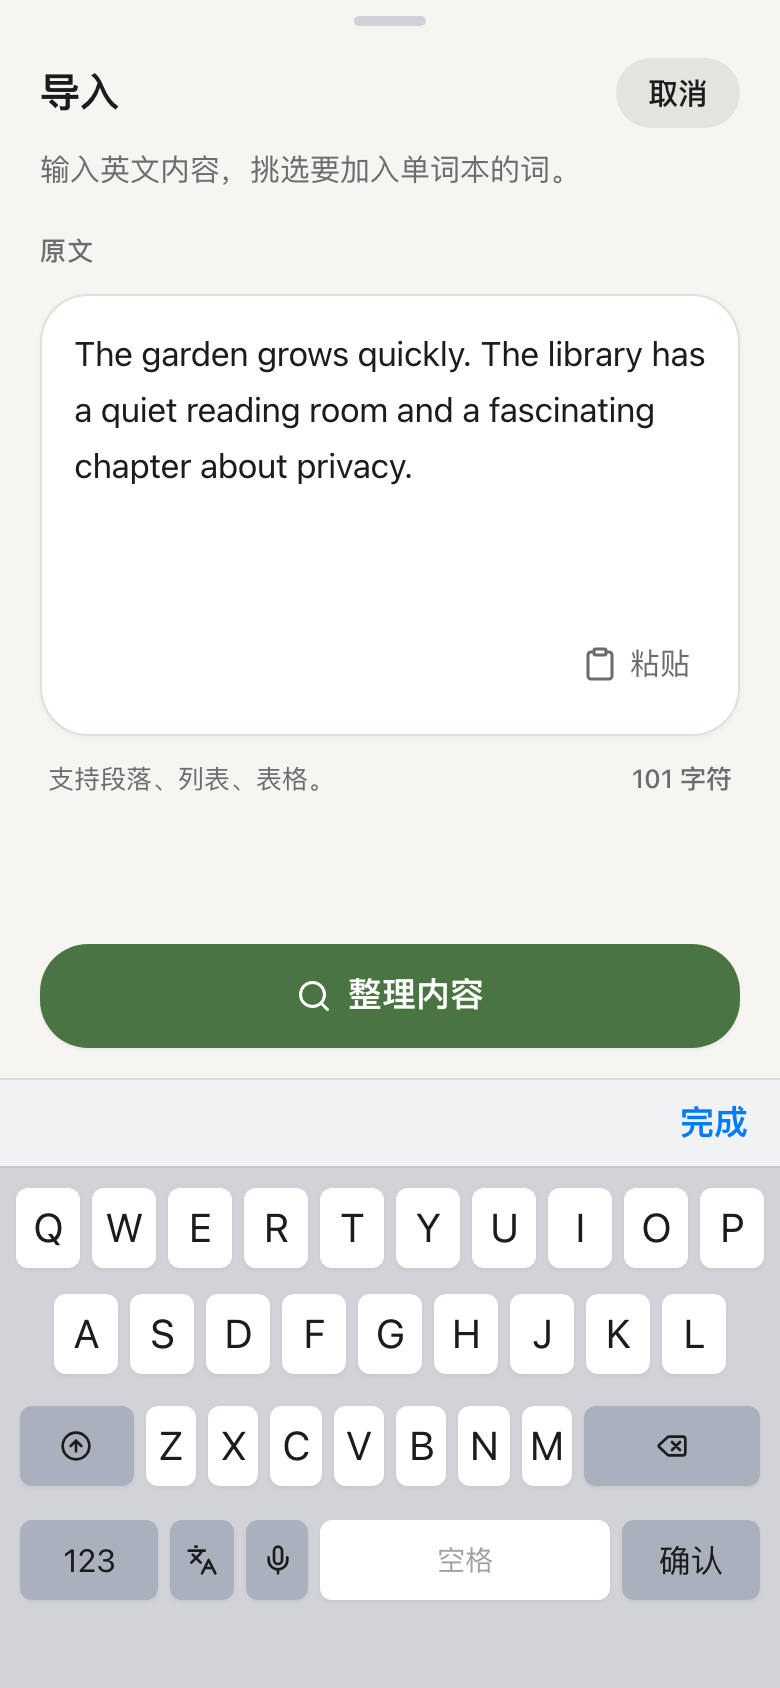
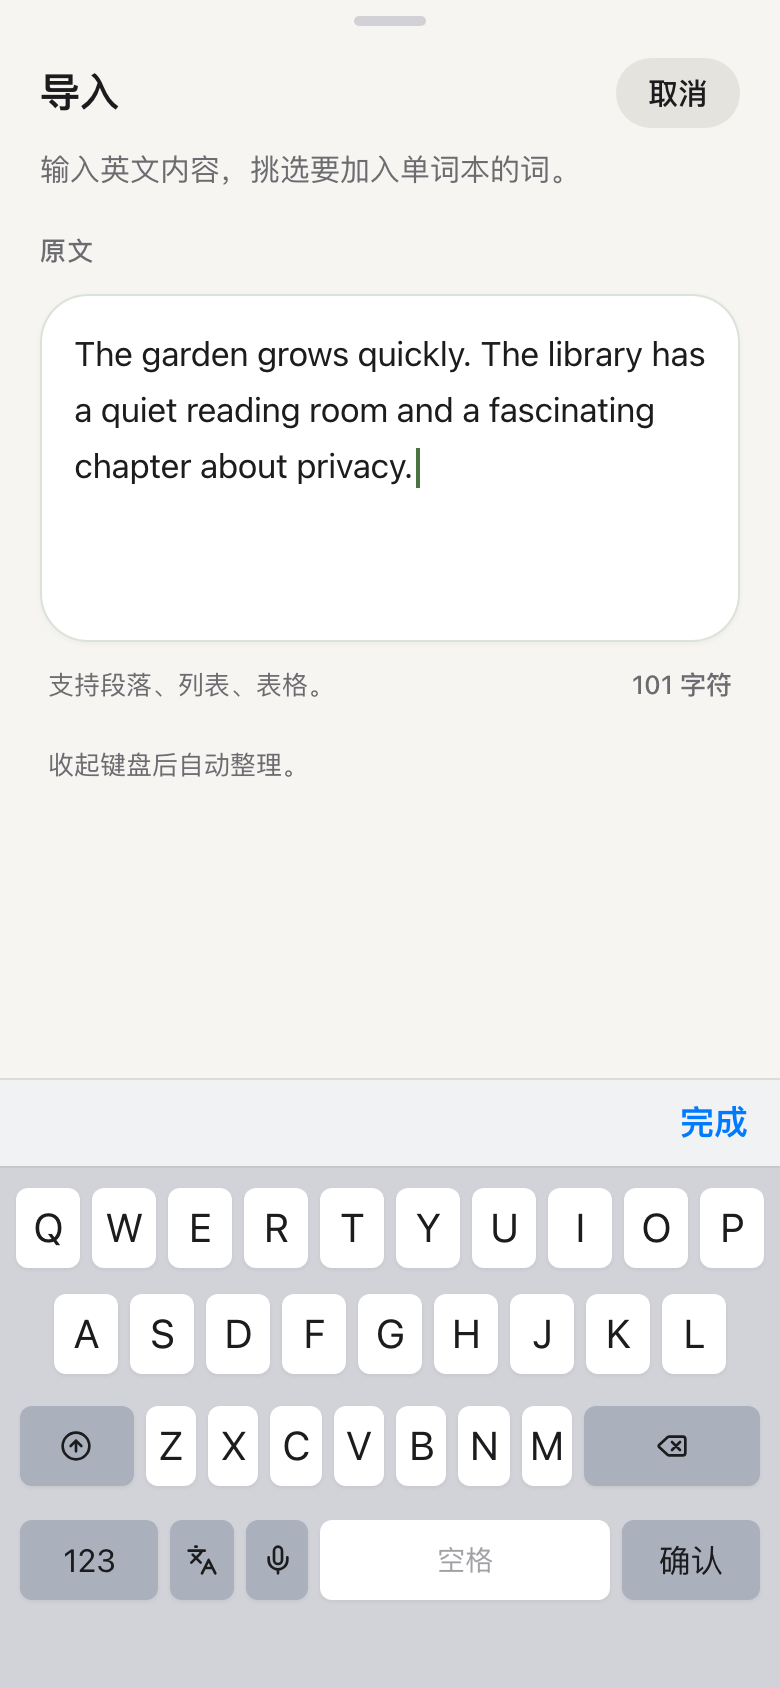
fix(import): prepare words on keyboard dismissal without extra button

Changed region(s): [[0.0308, 0.5545, 0.9538, 0.6469], [0.0615, 0.4005, 0.4, 0.4621], [0.7385, 0.3697, 0.9538, 0.4621]]

diff --git a/WordMem/Import/DocumentImportReviewViews.swift b/WordMem/Import/DocumentImportReviewViews.swift
@@ -10,7 +10,6 @@ struct DocumentImportReviewScreen<Source: View>: View {
   let subtitle: String
   let onCancel: () -> Void
   let onSubmit: () -> Void
-  var captureAction: DocumentImportCaptureAction? = nil
   var showsHeader = true
   @ViewBuilder var source: () -> Source
 
@@ -50,11 +49,7 @@ struct DocumentImportReviewScreen<Source: View>: View {
         .scrollBounceBehavior(.basedOnSize)
         .scrollDismissesKeyboard(.interactively)
 
-        primaryAction
-          .padding(.horizontal, 20)
-          .padding(.top, 10)
-          .padding(.bottom, 14)
-          .background(.bar)
+        bottomBar
       }
       .background(Color(.systemGroupedBackground).ignoresSafeArea())
       .interactiveDismissDisabled(model.isBusy || model.isSaving)
@@ -109,24 +104,8 @@ struct DocumentImportReviewScreen<Source: View>: View {
   }
 
   @ViewBuilder
-  private var primaryAction: some View {
-    if model.isBusy {
-      ImportPrimaryCTA(
-        title: "正在整理内容…",
-        systemImage: "text.magnifyingglass",
-        isLoading: true,
-        action: {}
-      )
-      .disabled(true)
-    } else if let captureAction, model.phase == .capturing {
-      ImportPrimaryCTA(
-        title: captureAction.title,
-        systemImage: "text.magnifyingglass",
-        isLoading: false,
-        action: captureAction.action
-      )
-      .disabled(!captureAction.isEnabled)
-    } else {
+  private var bottomBar: some View {
+    if model.phase.isReviewReady, !model.offeredChips.isEmpty {
       ImportPrimaryCTA(
         title: DocumentImportStatusPresenter.primaryButtonTitle(
           selectedCount: model.selectedWords.count,
@@ -136,6 +115,10 @@ struct DocumentImportReviewScreen<Source: View>: View {
         action: onSubmit
       )
       .disabled(!model.canSubmit)
+      .padding(.horizontal, 20)
+      .padding(.top, 10)
+      .padding(.bottom, 14)
+      .background(.bar)
     }
   }
 
@@ -177,12 +160,6 @@ struct DocumentImportReviewScreen<Source: View>: View {
       UIAccessibility.post(notification: .announcement, argument: announcement)
     }
   }
-}
-
-struct DocumentImportCaptureAction {
-  let title: String
-  let isEnabled: Bool
-  let action: () -> Void
 }
 
 /// Optional enrichment card fed by the canonical document translation session.

diff --git a/WordMem/TextImportView.swift b/WordMem/TextImportView.swift
@@ -41,11 +41,6 @@ struct TextImportView: View {
       subtitle: "输入英文内容，挑选要加入单词本的词。",
       onCancel: { dismiss() },
       onSubmit: { importSelectedWords() },
-      captureAction: DocumentImportCaptureAction(
-        title: "整理内容",
-        isEnabled: !draftText.trimmingCharacters(in: .whitespacesAndNewlines).isEmpty,
-        action: commitDraft
-      ),
       showsHeader: false
     ) {
       if let reviewDocument = model.reviewDocument, model.phase.isReviewReady {
@@ -76,10 +71,17 @@ struct TextImportView: View {
         isSourceFocused = false
       }
     }
+    .onChange(of: isSourceFocused) { wasFocused, isFocused in
+      // Dismissing the keyboard is the explicit "done typing" action. It starts
+      // preparation without adding another button or closing the sheet.
+      guard wasFocused, !isFocused else { return }
+      prepareDraftIfNeeded()
+    }
   }
 
-  private func commitDraft() {
-    isSourceFocused = false
+  private func prepareDraftIfNeeded() {
+    let trimmed = draftText.trimmingCharacters(in: .whitespacesAndNewlines)
+    guard !trimmed.isEmpty, model.phase == .capturing else { return }
     Task { await model.prepareText(draftText) }
   }
 

diff --git a/.superdesign/design-system.md b/.superdesign/design-system.md
@@ -39,12 +39,15 @@ Avoid:
 One full-height sheet. Three user-visible stages:
 
 1. **输入** — paste or type English content.
-2. **整理** — the app extracts structure, translates when possible, and prepares
-   dictionary-backed candidate words.
+2. **整理** — dismissing the keyboard (the existing “完成” affordance) starts
+   preparation automatically. The app extracts structure, translates when
+   possible, and prepares dictionary-backed candidate words.
 3. **挑选** — review the source, optional translation, and candidate chips, then
    import the selected words.
 
 The sheet only closes when the user taps Cancel or after a successful import.
+Dismissing the keyboard is a preview step, not a save. It never closes the
+sheet and never adds words to the wordbook.
 
 ## Screen 1 — Empty input
 
@@ -53,19 +56,19 @@ The sheet only closes when the user taps Cancel or after a successful import.
 - One-line subtitle: “输入英文内容，挑选要加入单词本的词。”
 - Large paper card labeled “原文”, with placeholder “输入或粘贴英文内容。”
 - Helper line under the editor: “支持段落、列表、表格。”
-- Sticky bottom action: primary “整理内容”, disabled while the editor is empty.
+- No bottom action in the empty input state. There is no separate commit button.
 - No empty-state error copy before the user has entered anything.
 
 ## Screen 2 — Typing with keyboard
 
 - The editor card grows with the text; the sheet stays full height.
-- The primary “整理内容” button sits above the keyboard, not under it.
 - The keyboard toolbar contains only “完成”, which dismisses the keyboard. It
-  must not start processing.
-- A small “粘贴” affordance sits inside the editor card.
+  does not save anything.
+- Dismissing the keyboard starts preparation automatically; the sheet stays open
+  and the source remains editable.
+- A quiet caption under the editor explains: “收起键盘后自动整理。”
 - Optional character count appears only after the first line, in a quiet caption.
-- The source remains editable; nothing is confirmed until the user taps
-  “整理内容”.
+- There is no extra primary button in this state.
 
 ## Screen 3 — Organizing
 
@@ -100,9 +103,8 @@ The sheet only closes when the user taps Cancel or after a successful import.
 - Keep the source and translation cards visible.
 - Empty state inside the candidate area:
   - short title “没有可保存的单词”;
-  - body “可以换一段内容，或手动添加。”
+  - body “可以换一段内容后再整理。”
   - primary “编辑原文”;
-  - secondary “手动添加”.
 - Do not show a spinner. Do not auto-close the sheet.
 
 ## Screen 6 — Save success
@@ -167,16 +169,13 @@ Motion:
 - Subtitle: 输入英文内容，挑选要加入单词本的词。
 - Editor placeholder: 输入或粘贴英文内容。
 - Helper: 支持段落、列表、表格。
-- Primary, empty: 整理内容
-- Primary, busy: 正在整理内容…
 - Primary, review: 导入 N 个单词
 - Organizing: 正在整理内容…
 - Preparing words: 正在准备单词…
 - Translation unavailable: 翻译暂不可用，可以直接保存单词。
 - No candidates: 没有可保存的单词
-- No candidates body: 可以换一段内容，或手动添加。
+- No candidates body: 可以换一段内容后再整理。
 - Edit source: 编辑原文
-- Add manually: 手动添加
 - Select all: 全选
 - Clear: 清除
 - Saved: 已添加 N 个单词

diff --git a/docs/evidence/import-ui-review/README.md b/docs/evidence/import-ui-review/README.md
@@ -15,8 +15,8 @@ Device: iPhone Duo Test simulator, iOS 27.1
 | Priority | Finding | Fix |
 | --- | --- | --- |
 | P1 | Text import opened in a medium sheet. The source editor and bottom action were clipped; a software keyboard would leave almost no editing space. | Text import now uses a full-height `.large` sheet. |
-| P1 | The only confirmation was the keyboard toolbar "完成". It both committed the draft and dismissed the keyboard, so users could trigger processing unintentionally. | The keyboard "完成" now only dismisses the keyboard. A visible primary action "整理内容" starts processing. |
-| P1 | The bottom action in the input state was a disabled "导入 0 个单词", which was not the next step. | The input state now shows "整理内容" with an enabled/disabled state based on whether the draft is empty. |
+| P1 | The keyboard toolbar "完成" both committed the draft and dismissed the keyboard, so processing could start unintentionally. | "完成" now only dismisses the keyboard. Dismissing the keyboard starts preparation; no extra commit button was added. |
+| P1 | The input state had a disabled "导入 0 个单词" bottom action, which was not the next step. | Input and organizing states have no bottom action. The existing "导入 N 个单词" appears only when review is ready. |
 | P2 | The sheet showed two "导入" headings: the navigation title and a large in-content title. | Text import uses a compact subtitle instead of the duplicate large header. |
 | P2 | The empty editor showed "没有可保存的单词" before any content had been entered in Debug builds. | The preview model now starts in `.capturing` when the source and chips are empty. |
 | P2 | The sheet could be swiped away while processing or saving. | Interactive dismissal is disabled while busy or saving. |
@@ -26,7 +26,8 @@ Device: iPhone Duo Test simulator, iOS 27.1
 
 - Typing does not start processing.
 - The keyboard "完成" only dismisses the keyboard.
-- "整理内容" is the explicit next step and stays enabled while editing.
+- Dismissing the keyboard starts preparation automatically; the sheet stays open.
+- There is no extra commit button. The only save action is the existing "导入 N 个单词".
 - Processing and review happen in the same sheet; the sheet only closes on cancel or after a successful save.
 - If Apple Intelligence is unavailable, deterministic candidates still appear (`garden`, `grow`, `quickly` in the evidence).
 
@@ -34,8 +35,8 @@ Device: iPhone Duo Test simulator, iOS 27.1
 
 - `01-before-empty-medium-sheet.png`: clipped medium sheet, duplicate title, misleading empty message.
 - `02-before-typed-keyboard-toolbar.png`: keyboard "完成" mixed with the import CTA.
-- `03-after-empty-large-sheet.png`: full-height sheet, compact subtitle, explicit "整理内容".
-- `04-after-typed-explicit-cta.png`: enabled "整理内容" CTA after typing.
+- `03-after-empty-no-extra-cta.png`: full-height sheet, compact subtitle, no extra bottom button.
+- `04-after-review-existing-import-cta.png`: review state with the existing import CTA only.
 - `05-after-review-fallback-chips.png`: review state with deterministic fallback chips; translation unavailable on the simulator.
 
 ## Verification

diff --git a/docs/evidence/import-ui-design/README.md b/docs/evidence/import-ui-design/README.md
@@ -21,18 +21,18 @@ https://superdesign.dev/teams/e895d94f-bdd8-41b0-aaf2-d6ec07e75d72/projects/6929
 
 | # | Screen | Purpose |
 | --- | --- | --- |
-| 01 | 输入 · 空 | 全高 sheet，清楚的下一步「整理内容」 |
-| 02 | 输入 · 键盘 | CTA 在键盘上方；键盘「完成」只收键盘 |
-| 03 | 整理中 | 内联进度、骨架候选词，不出现空白转圈 |
+| 01 | 输入 · 空 | 全高 sheet，无额外主按钮；只保留取消 |
+| 02 | 输入 · 键盘 | 键盘「完成」收起键盘后自动整理，不新增按钮 |
+| 03 | 整理中 | 内联进度、骨架候选词；没有底部按钮 |
 | 04 | 挑选 · 有候选 | 原文、译文、候选词、已选计数、导入 CTA |
-| 05 | 挑选 · 无候选 | 可操作的兜底空状态 |
+| 05 | 挑选 · 无候选 | 只保留「编辑原文」的兜底空状态 |
 | 06 | 保存成功 | sheet 关闭，词书上的轻量 toast |
 
 ## Key interaction decisions
 
 1. **一个全高 sheet，不做多步向导。** 输入、整理、挑选在同一个 sheet 内切换。
-2. **键盘「完成」只收键盘，不提交。** 唯一提交入口是「整理内容」。
-3. **主按钮永远在键盘上方。** 输入态、整理态、挑选态各只有一个主操作。
+2. **不新增确认按钮。** 收起键盘（键盘「完成」）即开始整理；整理只是预览，不保存。
+3. **唯一保存入口是原有的「导入 N 个单词」。** 输入态和整理态没有底部按钮。
 4. **处理中不可下滑关闭。** 只有取消或保存成功才关闭 sheet。
 5. **AI 失败也必须出词。** 兜底候选来自系统词典；界面不出现模型名或技术阶段。
 6. **保存成功用 toast，不用阻塞 alert。**
@@ -50,8 +50,9 @@ https://superdesign.dev/teams/e895d94f-bdd8-41b0-aaf2-d6ec07e75d72/projects/6929
 
 - 01/02/03 可以直接映射到现有 `TextImportView` + `DocumentImportReviewScreen`：
   - `.presentationDetents([.large])`
-  - `captureAction` 显示「整理内容」
   - 键盘工具栏「完成」只设置 `isSourceFocused = false`
+  - focus 从 true 变为 false 时自动调用 `prepareText`
+  - 输入态和整理态不显示底部 CTA
   - 处理中 `.interactiveDismissDisabled(true)`
 - 04/05 对应 `DocumentImportReviewScreen` 的 review / noWords 状态。
 - 06 对应现有保存成功后的 toast/alert；建议把阻塞 alert 换成底部轻量 toast。
